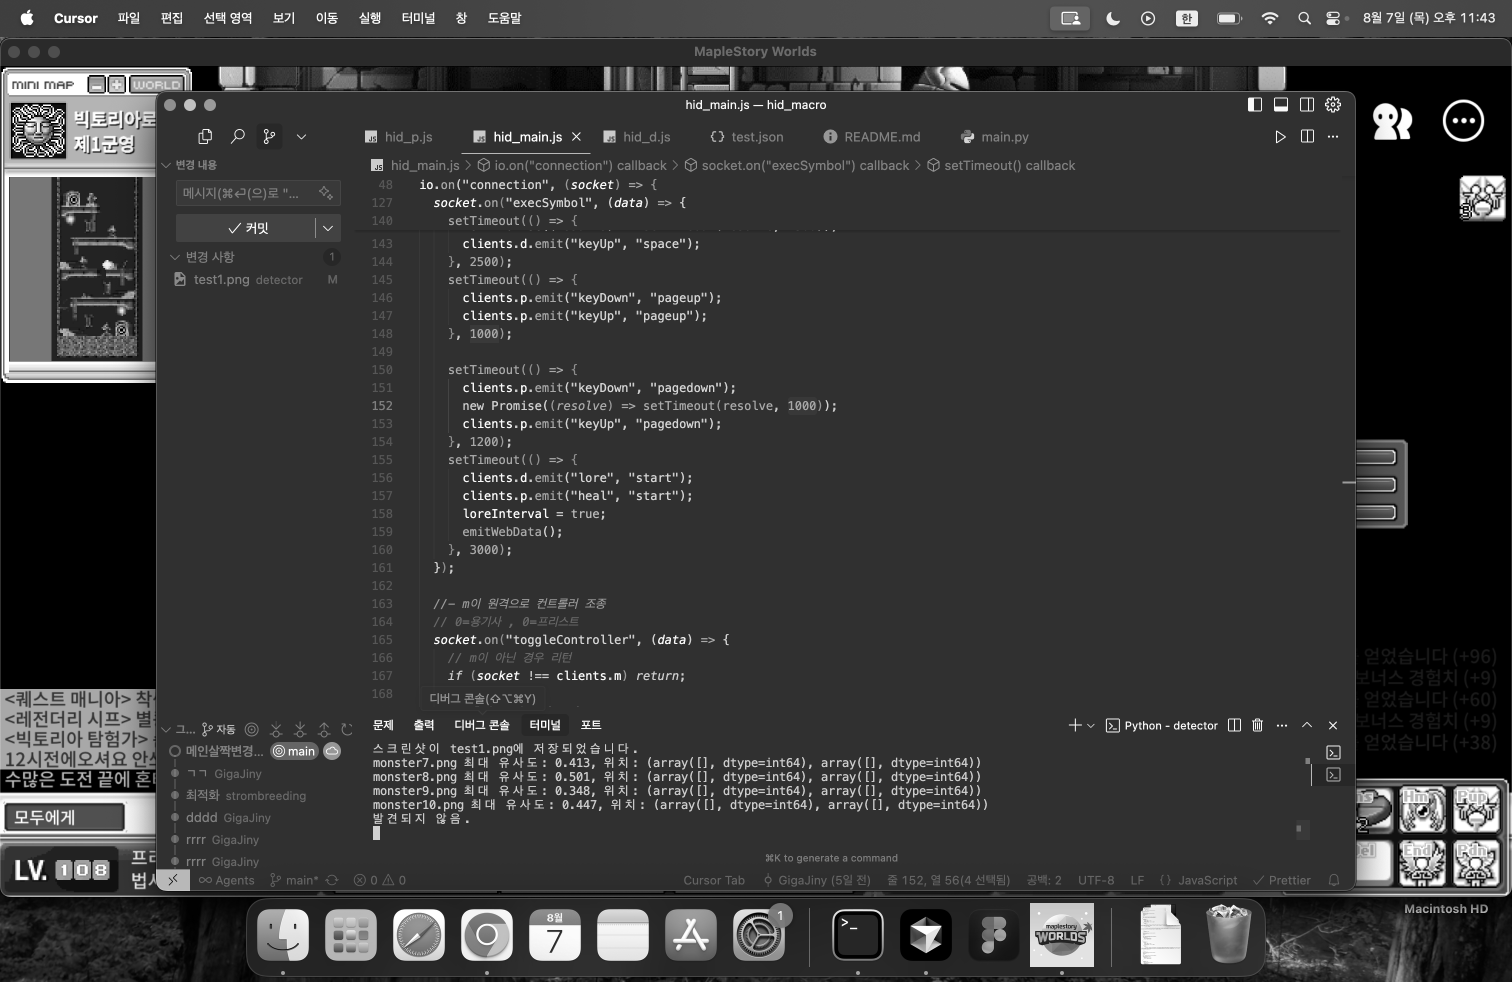
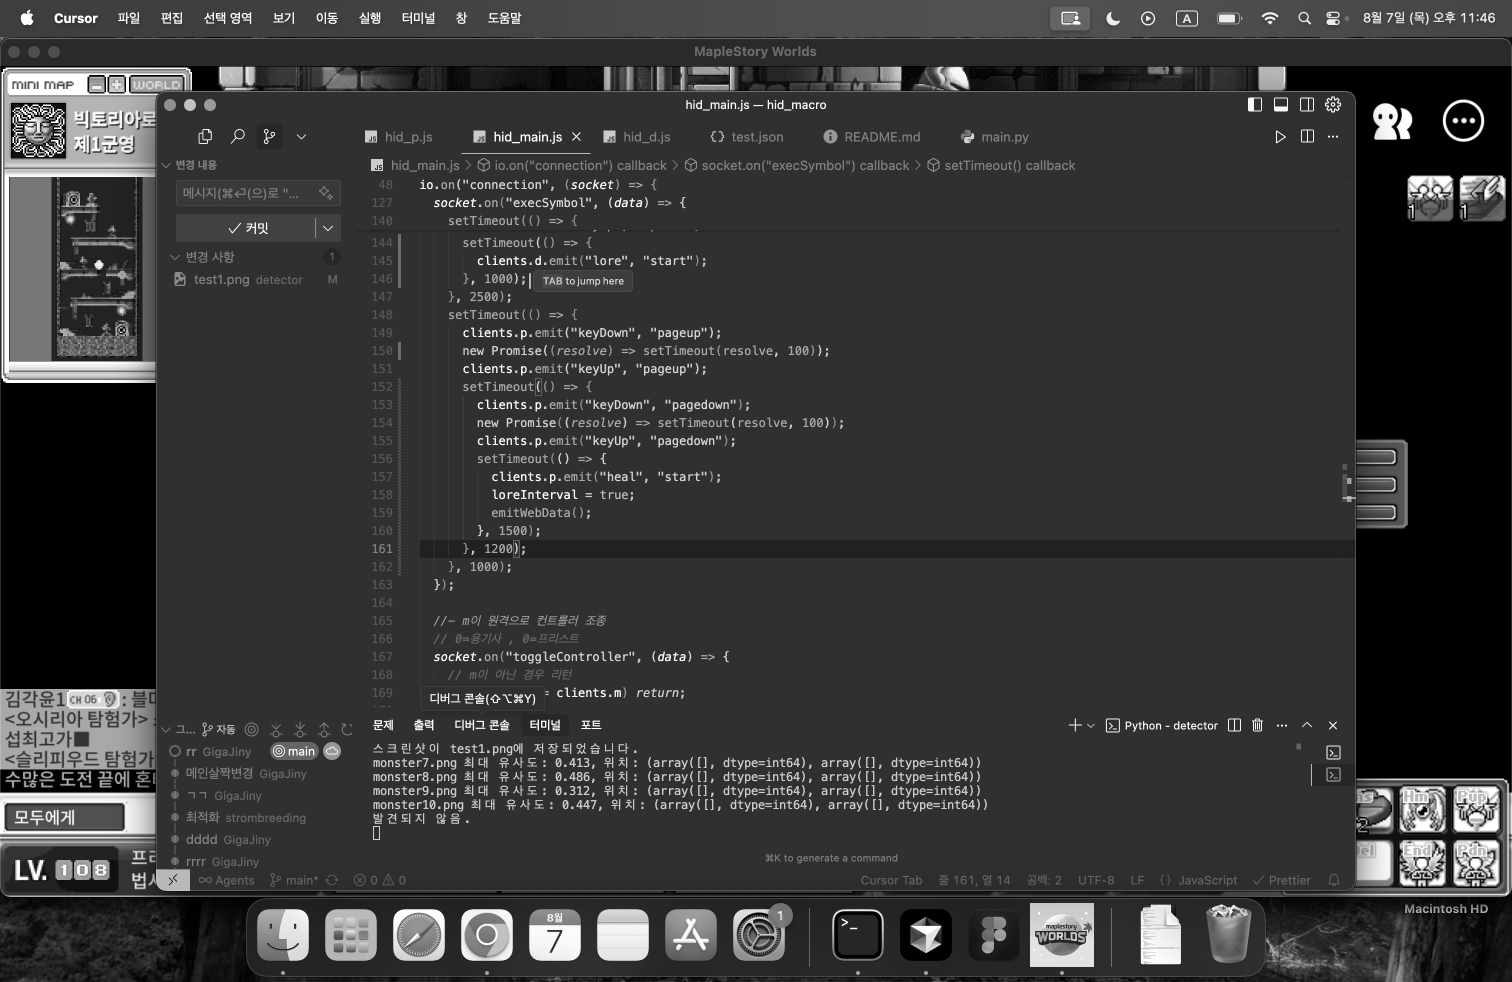
rrr

diff --git a/hid_main.js b/hid_main.js
@@ -141,25 +141,25 @@ io.on("connection", (socket) => {
       clients.d.emit("keyDown", "space");
       new Promise((resolve) => setTimeout(resolve, 1500));
       clients.d.emit("keyUp", "space");
-    }, 2500);
-    setTimeout(() => {
-      clients.p.emit("keyDown", "pageup");
-      clients.p.emit("keyUp", "pageup");
       setTimeout(() => {
         clients.d.emit("lore", "start");
       }, 1000);
-    }, 1000);
-
+    }, 2500);
     setTimeout(() => {
-      clients.p.emit("keyDown", "pagedown");
-      new Promise((resolve) => setTimeout(resolve, 1000));
-      clients.p.emit("keyUp", "pagedown");
+      clients.p.emit("keyDown", "pageup");
+      new Promise((resolve) => setTimeout(resolve, 100));
+      clients.p.emit("keyUp", "pageup");
       setTimeout(() => {
-        clients.p.emit("heal", "start");
-        loreInterval = true;
-        emitWebData();
-      }, 1000);
-    }, 1500);
+        clients.p.emit("keyDown", "pagedown");
+        new Promise((resolve) => setTimeout(resolve, 100));
+        clients.p.emit("keyUp", "pagedown");
+        setTimeout(() => {
+          clients.p.emit("heal", "start");
+          loreInterval = true;
+          emitWebData();
+        }, 1500);
+      }, 1200);
+    }, 1000);
   });
 
   //- m이 원격으로 컨트롤러 조종
